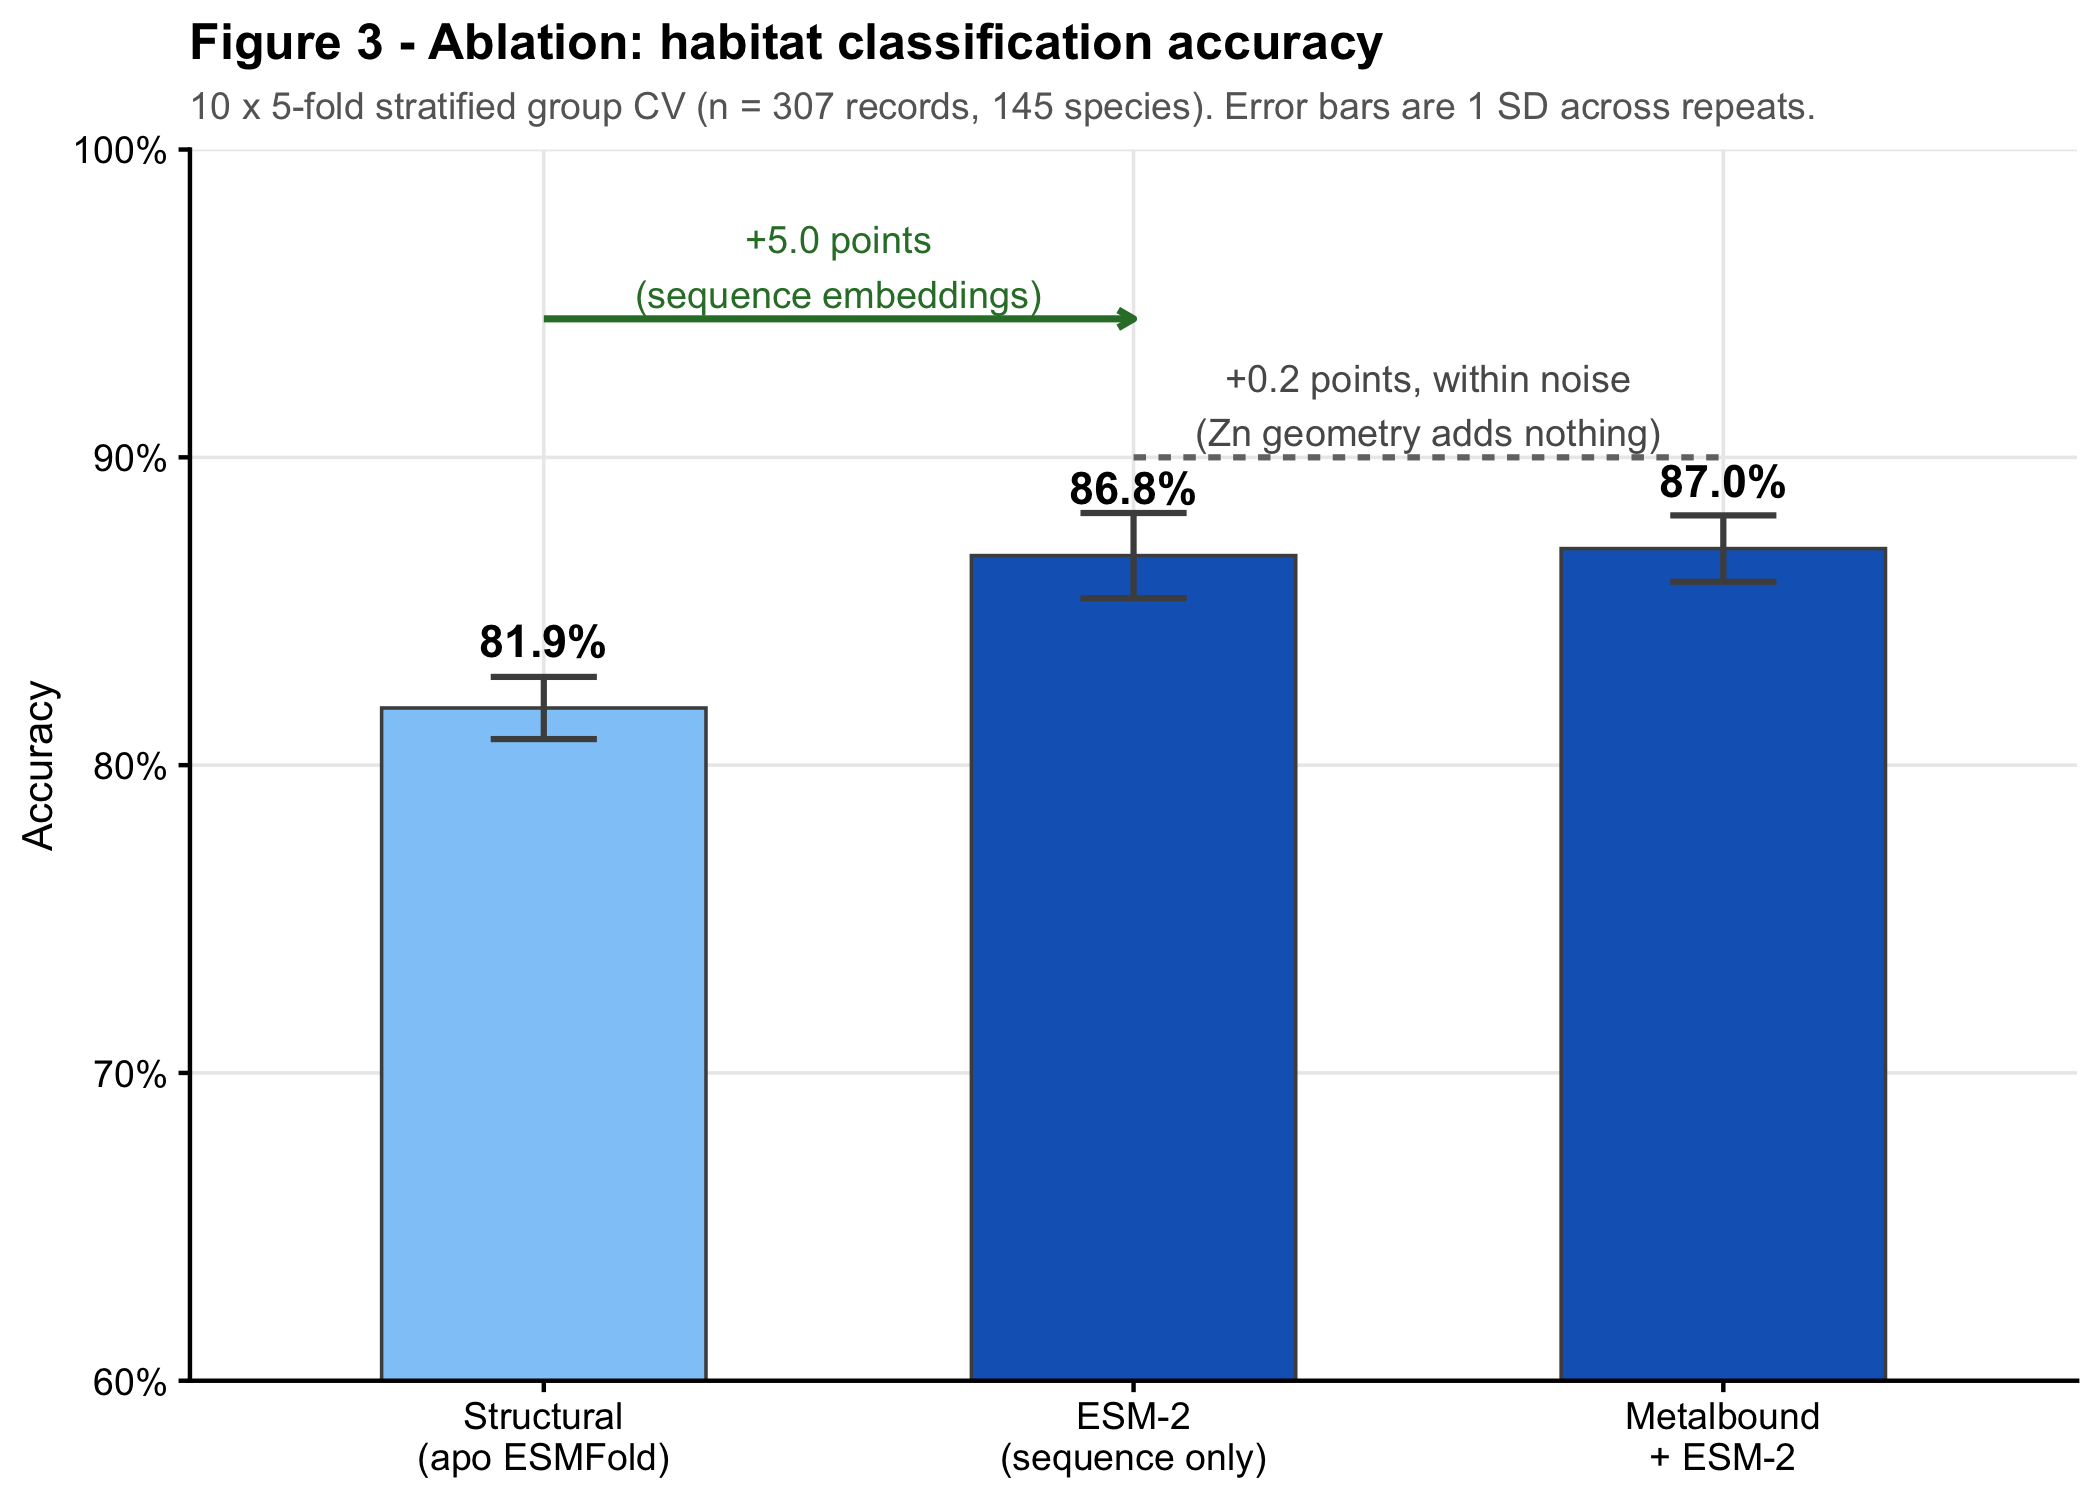
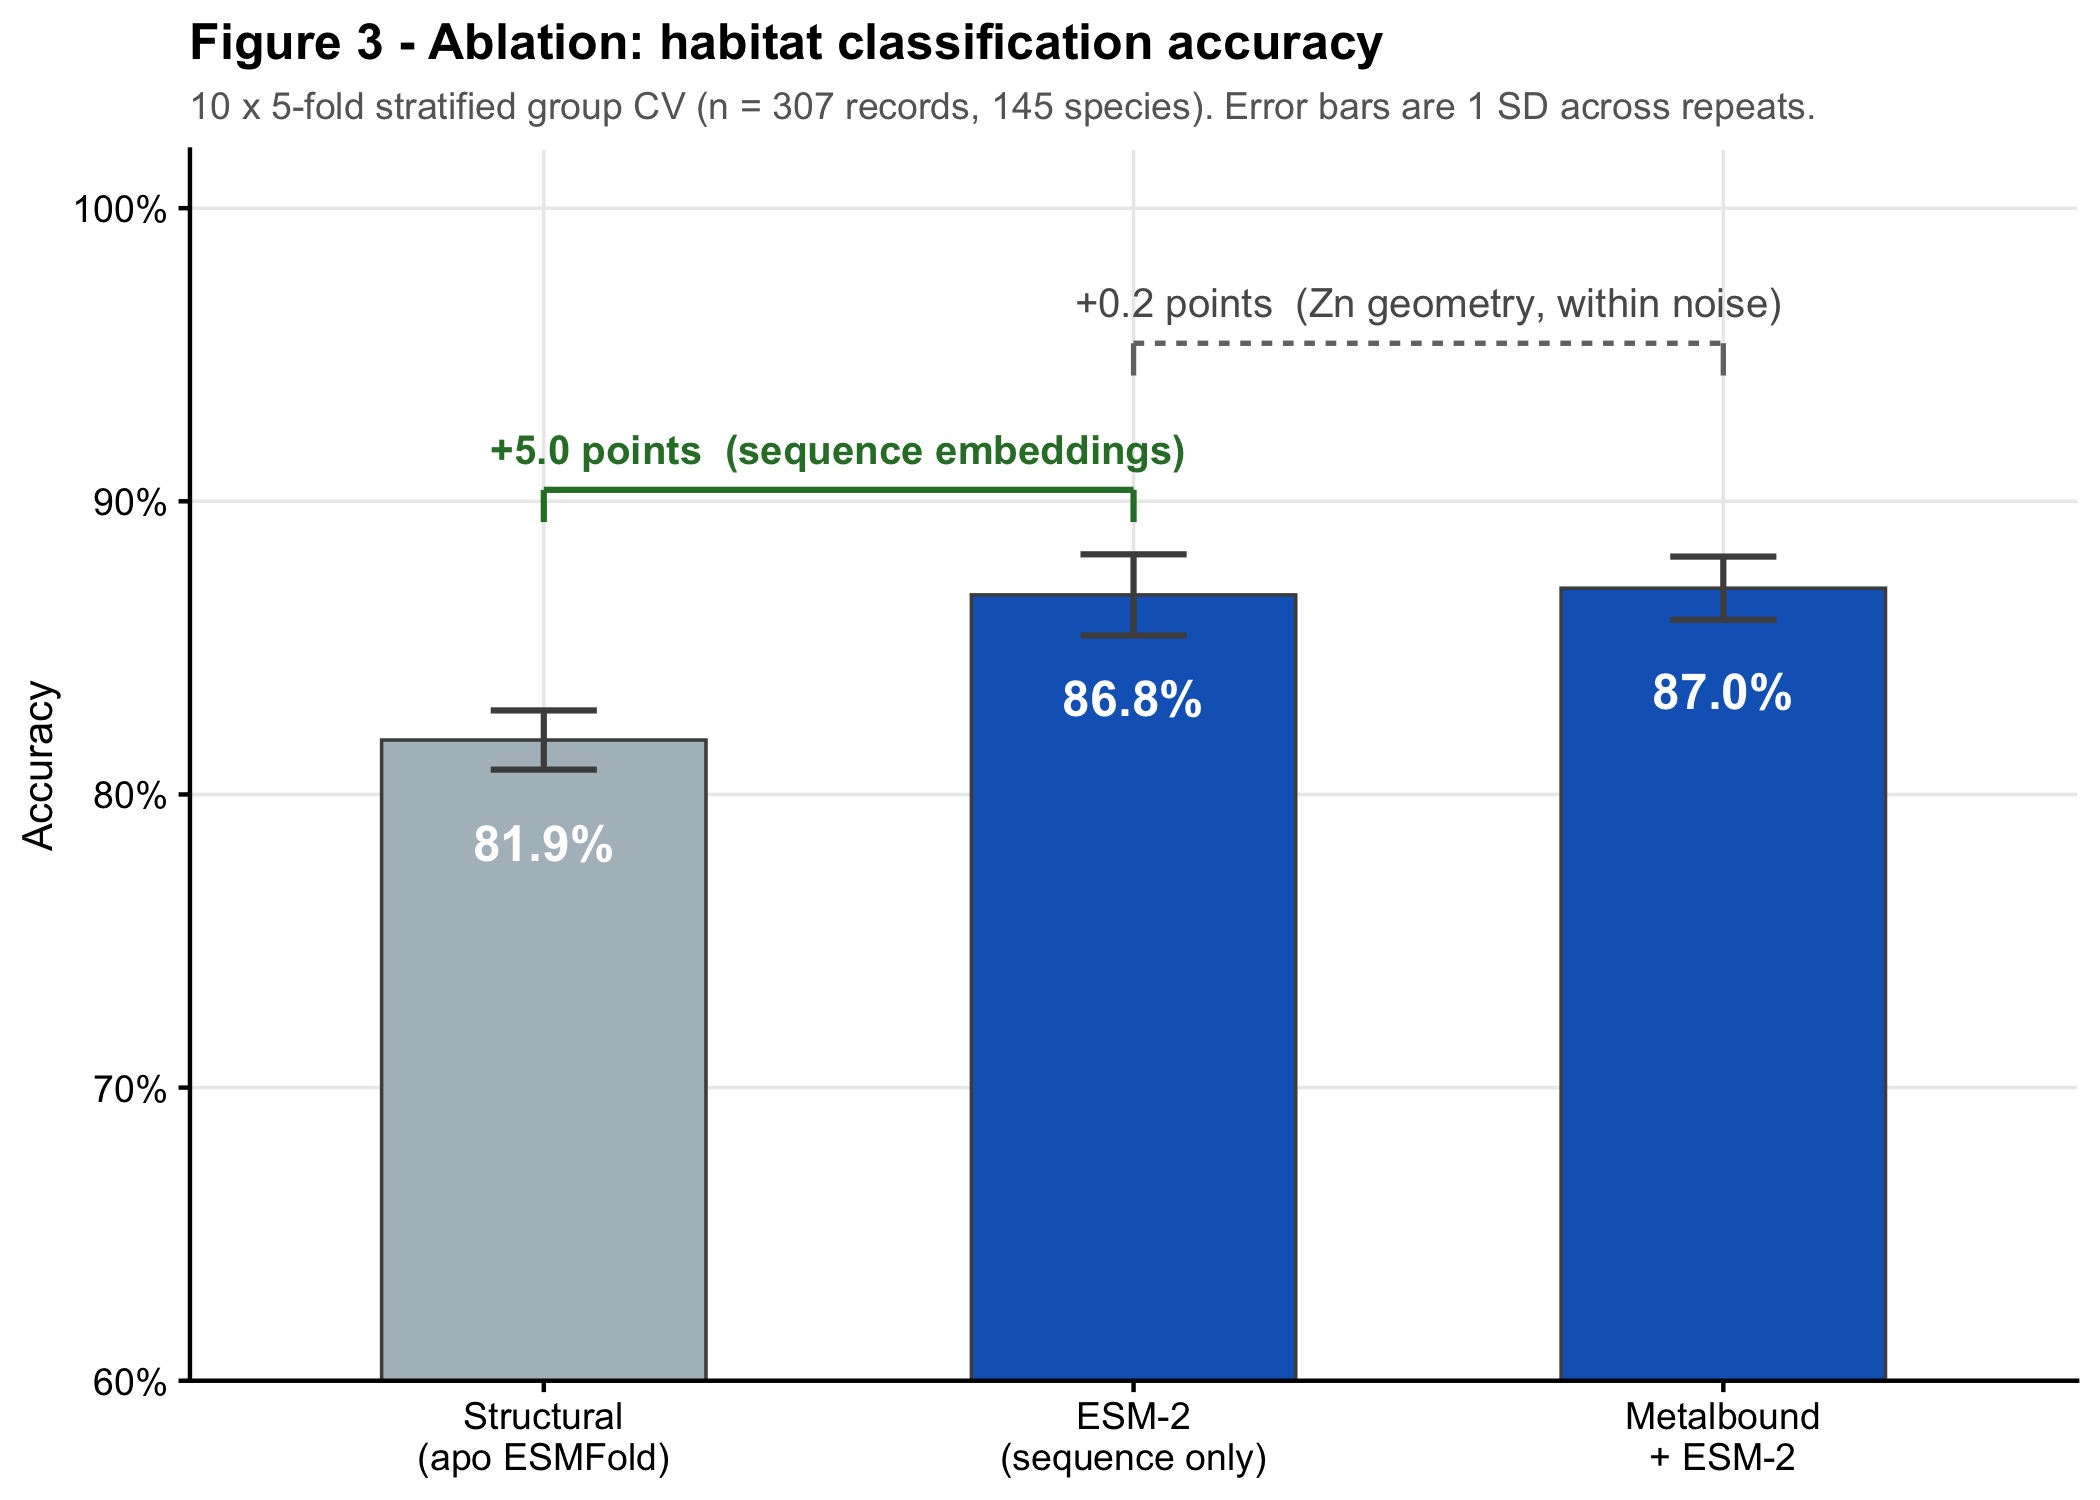
Redraw Figure 1 as a study design, and connect the Figure 3 comparison brackets
Figure 1 was a five-box flowchart whose end boxes were clipped by the canvas,
with a third of the frame empty. It carried stale counts of 535 sequences and
272 species, named GroupShuffleSplit as the validation, and captioned the Zn
geometry as a novel contribution, which the ablation has since shown adds
nothing.

It now reads the live numbers from results/robust_eval/, so it cannot drift
again. The layout shows the cohort funnel from 535 sequences to 307 records and
145 species, the three feature sets as parallel branches with ESM-2 marked as
the one that carries the gain, the repeated stratified group CV, and a result
panel that states both comparisons: 5.0 points for embeddings over apo
structure, and 0.2 points for Zn geometry over embeddings.

Figure 3 drew its comparison annotations as floating horizontal arrows several
points above the bars, so neither appeared to attach to anything. Both are now
brackets with downward ticks that meet the bars they compare, stacked so they
do not overlap. Value labels moved inside the bars.

diff --git a/src/generate_paper1_figures.py b/src/generate_paper1_figures.py
@@ -80,40 +80,107 @@ def load_predictions(directory: Path, target: str, model: str = "random_forest")
 # Figure 1: Pipeline schematic
 
 def fig_pipeline_schematic() -> None:
-    fig, ax = plt.subplots(figsize=(10, 4))
-    ax.set_xlim(0, 10)
-    ax.set_ylim(0, 3)
+    """Study design, drawn from the live result files so it cannot drift."""
+    import json
+
+    def robust(name):
+        f = ROOT / "results" / "robust_eval" / f"{name}.json"
+        return json.load(open(f)) if f.exists() else None
+
+    mb, esm, st = robust("metalbound_esm2"), robust("esm2"), robust("structural")
+    n_rec = mb["n_records"] if mb else 307
+    n_sp = mb["n_species"] if mb else 145
+
+    fig, ax = plt.subplots(figsize=(13, 7.8))
+    ax.set_xlim(0, 13)
+    ax.set_ylim(0, 7.8)
     ax.axis("off")
 
-    boxes = [
-        (0.5, 1.2, "MT Sequences\n(535 seqs,\n272 species)", "#E3F2FD"),
-        (2.5, 1.2, "Structure\nPrediction\n(ESMFold/Boltz)", "#E8F5E9"),
-        (4.5, 1.2, "Feature\nExtraction\n(47 struct +\n2560 ESM-2 +\n13 Zn geometry)", "#FFF3E0"),
-        (6.8, 1.2, "Random Forest\n+ Cross-validation\n(GroupShuffleSplit)", "#F3E5F5"),
-        (9.0, 1.2, "Habitat /\nThermal\nPrediction", "#FCE4EC"),
+    INK, MUTED = "#1A1A1A", "#5A5A5A"
+    BLUE, GREY, GREEN, SAND = "#1F4E79", "#E8E8E8", "#2E7D32", "#F5EFE0"
+
+    def box(x, y, w, h, title, body, fill="white", edge=INK, lw=1.1, tsize=10, bsize=8.6):
+        ax.add_patch(mpatches.FancyBboxPatch(
+            (x, y), w, h, boxstyle="round,pad=0.045,rounding_size=0.08",
+            linewidth=lw, edgecolor=edge, facecolor=fill, zorder=2))
+        if title:
+            ax.text(x + w / 2, y + h - 0.30, title, ha="center", va="center",
+                    fontsize=tsize, fontweight="bold", color=INK, zorder=3)
+        if body:
+            ax.text(x + w / 2, y + (h - 0.62) / 2 + 0.06, body, ha="center", va="center",
+                    fontsize=bsize, color=MUTED, linespacing=1.5, zorder=3)
+
+    def arrow(x0, y0, x1, y1, color=INK, lw=1.3, style="-|>"):
+        ax.annotate("", xy=(x1, y1), xytext=(x0, y0), zorder=1,
+                    arrowprops=dict(arrowstyle=style, color=color, lw=lw,
+                                    shrinkA=0, shrinkB=0))
+
+    # Stage 1, inputs
+    box(0.35, 5.25, 2.5, 1.35, "Sequences",
+        "UniProt and NCBI\n535 metallothioneins", fill="white")
+    box(0.35, 3.45, 2.5, 1.35, "Environment",
+        "OBIS occurrences\nBio-ORACLE v3 layers", fill="white")
+
+    # Stage 2, cohort
+    box(3.45, 4.05, 2.6, 2.55, "Modelled cohort",
+        f"535 sequences\n\u2193 measured label\n349 records\n"
+        f"\u2193 marine only\n{n_rec} records\n{n_sp} species",
+        fill=SAND, bsize=8.4)
+    arrow(2.85, 5.92, 3.45, 5.55)
+    arrow(2.85, 4.12, 3.45, 4.95)
+
+    # Stage 3, three feature sets
+    ax.text(7.95, 7.02, "Feature sets, compared by ablation",
+            ha="center", va="center", fontsize=9.5, fontweight="bold", color=INK)
+    fb = [
+        (5.62, "Apo structural geometry", "47 features, ESMFold", GREY),
+        (4.52, "ESM-2 embeddings", "2560 dims, mean pooled", BLUE),
+        (3.42, "Zn(2+) coordination geometry", "13 features, Boltz-1", GREY),
     ]
+    for y, t, b, c in fb:
+        filled = c == BLUE
+        box(6.35, y, 3.2, 0.98, t, b,
+            fill="#EAF1F8" if filled else "white",
+            edge=c if filled else INK, lw=1.6 if filled else 1.0,
+            tsize=9.2, bsize=8.2)
+        arrow(6.05, 5.32, 6.35, y + 0.49)
 
-    for (x, y, label, color) in boxes:
-        rect = mpatches.FancyBboxPatch(
-            (x - 0.85, y - 0.7), 1.7, 1.4,
-            boxstyle="round,pad=0.1",
-            linewidth=1.2, edgecolor="#555",
-            facecolor=color,
-        )
-        ax.add_patch(rect)
-        ax.text(x, y, label, ha="center", va="center", fontsize=7.5, wrap=True)
+    # Stage 4, evaluation
+    box(9.95, 4.05, 2.7, 2.55, "Random Forest",
+        "300 trees\n\n10 repeats of\n5-fold stratified\ngroup CV\n\n"
+        "species never\nsplit across folds",
+        fill="white", bsize=8.2)
+    for y, *_ in fb:
+        arrow(9.55, y + 0.49, 9.95, 5.32)
 
-    for i in range(len(boxes) - 1):
-        x0 = boxes[i][0] + 0.85
-        x1 = boxes[i + 1][0] - 0.85
-        y = 1.2
-        ax.annotate("", xy=(x1, y), xytext=(x0, y),
-                    arrowprops=dict(arrowstyle="->", color="#333", lw=1.5))
+    # Stage 5, outcome
+    box(0.35, 0.35, 12.3, 2.55, "", "", fill="white", edge=GREEN, lw=1.6)
+    ax.text(6.5, 2.62, "Result", ha="center", va="center", fontsize=11,
+            fontweight="bold", color=INK, zorder=3)
+    if mb and esm and st:
+        acc = lambda d: d["habitat_accuracy_mean"] * 100
+        cols = [
+            (2.45, "Headline",
+             f"Habitat accuracy  {acc(mb):.1f}%\nSD {mb['habitat_accuracy_sd']*100:.1f} points\n"
+             f"Macro F1  {mb['habitat_f1_macro_mean']:.3f}\nSST  r = {mb['sst_pearson_mean']:.3f}", INK),
+            (6.50, "Embeddings over apo structure",
+             f"{acc(st):.1f}%  \u2192  {acc(esm):.1f}%\n\n+{acc(esm)-acc(st):.1f} points\n"
+             f"several times the SD\nthis gain is real", GREEN),
+            (10.55, "Zn geometry over embeddings",
+             f"{acc(esm):.1f}%  \u2192  {acc(mb):.1f}%\n\n+{acc(mb)-acc(esm):.1f} points\n"
+             f"SD is {mb['habitat_accuracy_sd']*100:.1f}\nnot measurable", MUTED),
+        ]
+        for x, head, body, c in cols:
+            ax.text(x, 2.10, head, ha="center", va="center", fontsize=9.2,
+                    fontweight="bold", color=c, zorder=3)
+            ax.text(x, 1.24, body, ha="center", va="center", fontsize=8.8,
+                    color=INK, linespacing=1.65, zorder=3)
+        for xd in (4.48, 8.52):
+            ax.plot([xd, xd], [0.62, 2.28], color="#D0D0D0", lw=1, zorder=1)
+    arrow(11.3, 4.05, 11.3, 2.90, color=GREEN, lw=1.5)
 
-    ax.text(5.0, 0.15, "Zn²⁺ ligand geometry from Boltz-predicted metal-bound structures (novel contribution)",
-            ha="center", va="center", fontsize=8, style="italic", color="#555")
-
-    ax.set_title("Figure 1 - ML Pipeline Overview", fontsize=11, fontweight="bold", pad=8)
+    ax.text(6.5, 7.55, "Figure 1 - Study design", ha="center", va="center",
+            fontsize=13, fontweight="bold", color=INK)
     save(fig, "fig1_pipeline_schematic.png")
 
 
